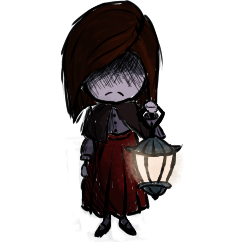
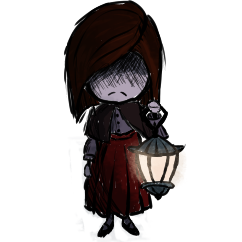
Sprite cleanup + random floor demo

Changed region(s): [[0.2314, 0.0, 0.781, 0.9835]]

diff --git a/core/src/com/mygdx/game/View.java b/core/src/com/mygdx/game/View.java
@@ -21,13 +21,15 @@ import com.badlogic.gdx.graphics.g3d.utils.ModelBuilder;
 import com.badlogic.gdx.graphics.glutils.ShapeRenderer;
 import com.badlogic.gdx.math.Vector3;
 
+import java.util.stream.IntStream;
+
 public class View {
     private final ShapeRenderer debugRenderer;
     private final SpriteBatch batch;
     private final Texture playerImg;
     private final Texture badLogic64;
     private final Texture boxImg;
-    private final Texture grass;
+    private final Texture[] grass;
     private final Texture wall;
     private final Texture shadow;
     private final Texture chest;
@@ -37,7 +39,6 @@ public class View {
     private final Model leftWall;
     private final Model rightWall;
     private final Model backWall;
-    private final Model tileModel;
     private final ModelInstance leftWallInstance;
     private final ModelInstance rightWallInstance;
     private final ModelInstance backWallInstance;
@@ -50,9 +51,10 @@ public class View {
     View() {
         playerImg = new Texture("char.png");
         boxImg = new Texture("box.png");
-//        grass = new Texture("grass.png");
-        grass = new Texture("boxy.png");
-//        grass.setFilter(Texture.TextureFilter.Nearest, Texture.TextureFilter.Nearest);
+//        grass = new Texture[] { new Texture("boxy.png") };
+        grass = IntStream.range(1, 7)
+                .mapToObj(x -> new Texture("grass" + x + ".png"))
+                .toArray(Texture[]::new);
         wall = new Texture("wall.jpg");
         debugRenderer =  new ShapeRenderer();
         batch = new SpriteBatch();
@@ -96,15 +98,7 @@ public class View {
                 new Material(ColorAttribute.createDiffuse(new Color(0, 0.4f, 0, 1))),
                 Usage.Position | Usage.Normal
         );
-        tileModel = modelBuilder.createRect(
-            0, -1, sizeOfBlock,
-            sizeOfBlock, -1, sizeOfBlock,
-            sizeOfBlock, -1, 0,
-            0, -1, 0,
-            0, 0, -1,
-            new Material(TextureAttribute.createDiffuse(grass)),
-            Usage.Position | Usage.Normal | Usage.TextureCoordinates
-        );
+
         leftWallInstance = new ModelInstance(leftWall);
         rightWallInstance = new ModelInstance(rightWall);
         backWallInstance = new ModelInstance(backWall);
@@ -160,7 +154,7 @@ public class View {
             final Decal dec = Decal.newDecal(sizeOfBlock, sizeOfBlock, new TextureRegion(img));
             if (ty == Logic.ThingType.PLAYER) {
                 dec.setScale(2f);
-                pos = pos.add(0, sizeOfBlock / 2f, sizeOfBlock / 2f - 0.1f);
+                pos = pos.add(0, sizeOfBlock / 2f, sizeOfBlock / 2f - 0.08f);
             } else {
                 dec.setScaleY(1.5f);
                 pos = pos.add(0, sizeOfBlock / 4f, 0);
@@ -191,7 +185,8 @@ public class View {
                         new Logic.Pos(x, y)
                 ).add(sizeOfBlock / 2, -1, sizeOfBlock / 2);
 
-                final Decal dec = Decal.newDecal(sizeOfBlock, sizeOfBlock, new TextureRegion(grass));
+                int idx = ((x << 16) ^ y) % grass.length;
+                final Decal dec = Decal.newDecal(sizeOfBlock, sizeOfBlock, new TextureRegion(grass[idx]));
                 dec.rotateX(90);
                 dec.setPosition(currentCellPos);
                 decalBatch.add(dec);
@@ -217,6 +212,5 @@ public class View {
         leftWall.dispose();
         rightWall.dispose();
         backWall.dispose();
-        tileModel.dispose();
     }
 }
